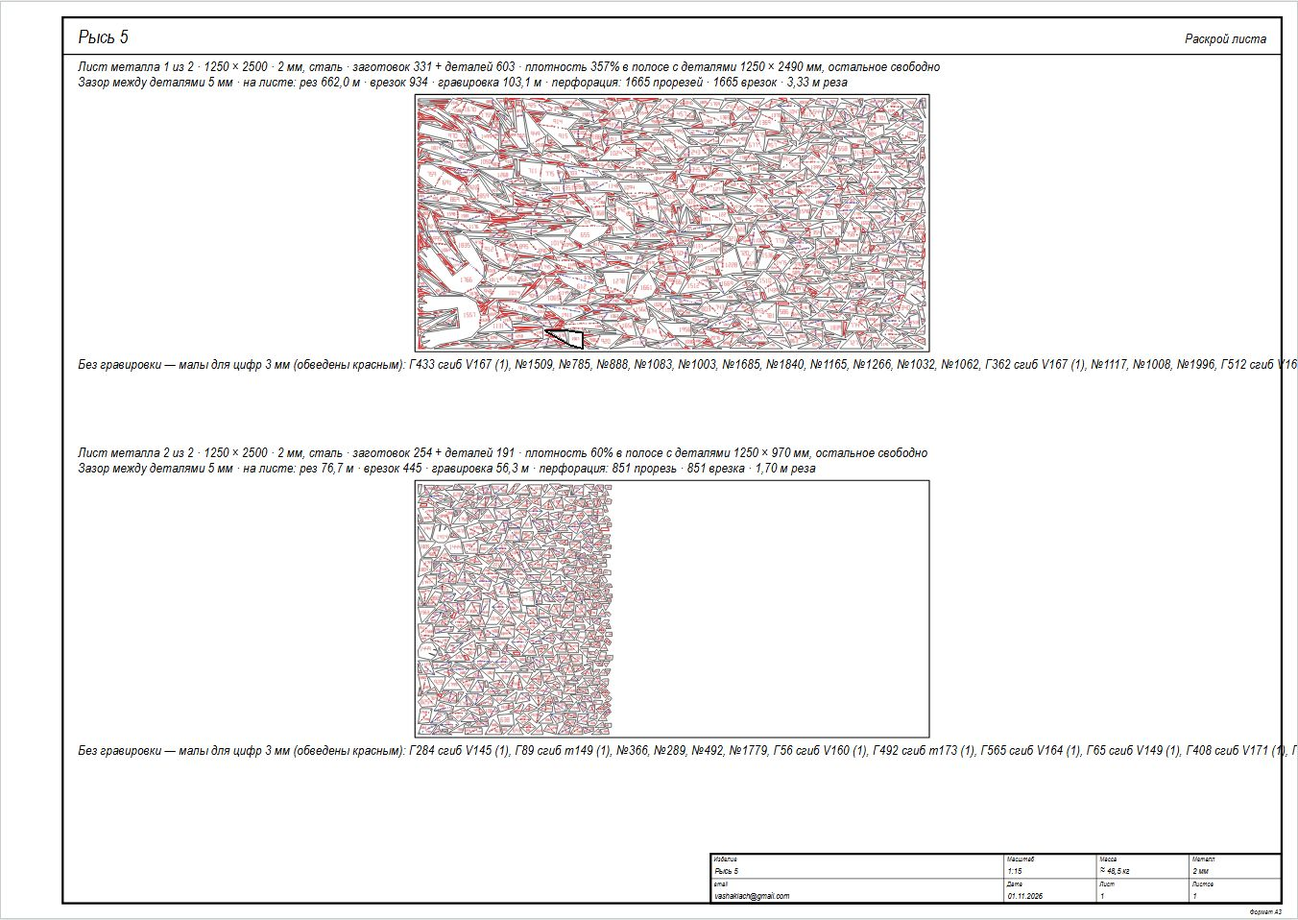
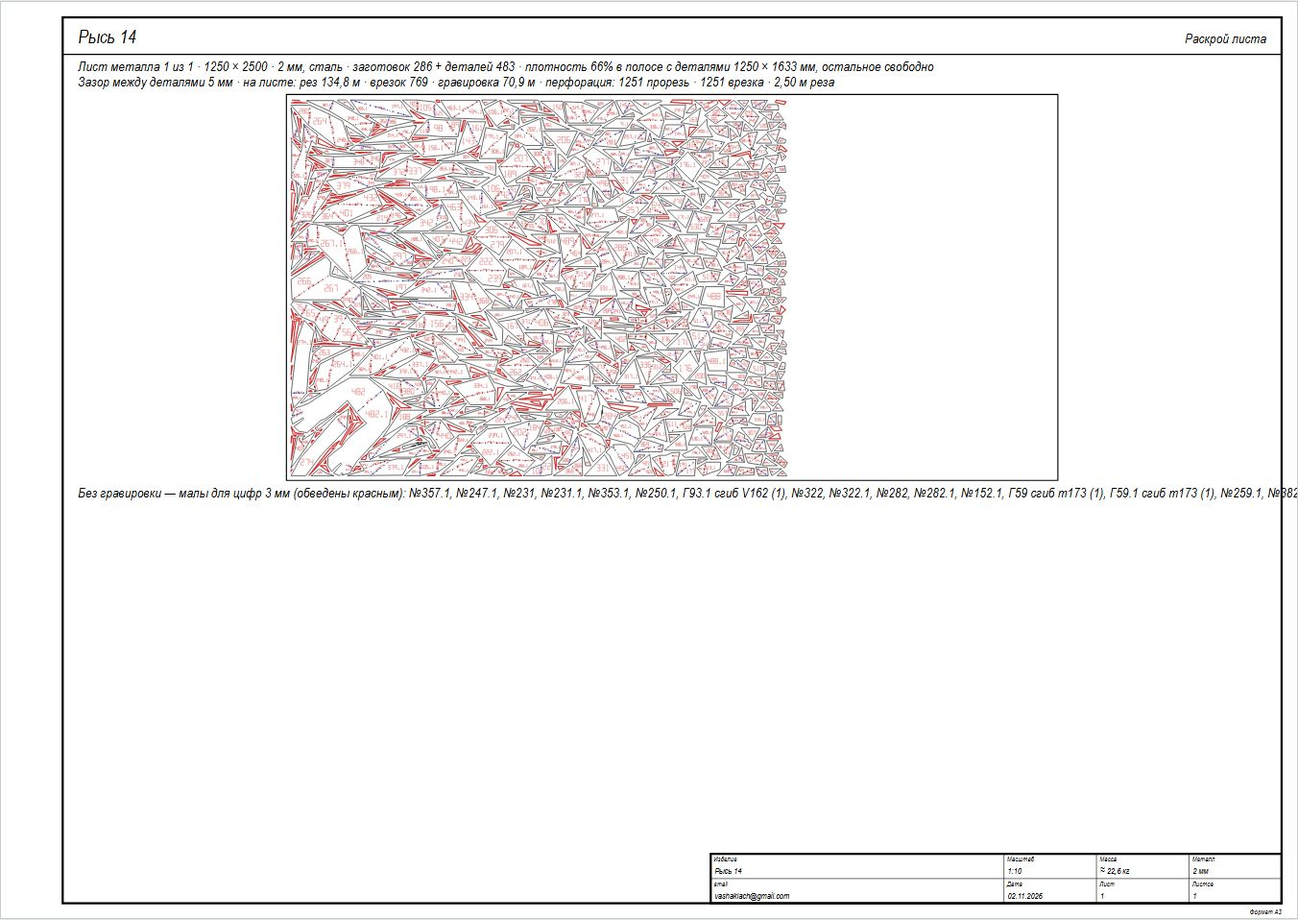
Рысь 14, кнопка редактора, подсказка про пересчёт на мангале
- Рысь 14: lynx/ пересобран, в «Переработке» вторая картинка (рысь 3), сборщик снимает список фигур
- Кнопка рыси: «Прислать фото и пожелания в Telegram», везде одинаково
- Строка под ползунками мангала мигает после правки, ссылка раскрывает «Что получаете»
- Блок «Ползунки — это только начало» и кнопки «Открыть в редакторе →» на editor/ (пока 404)
- model.json и stats.json грузятся с меткой ?v=

diff --git a/index.html b/index.html
@@ -14,9 +14,9 @@
 <meta property="og:url" content="https://vitalishaklach.github.io/metal-designer-landing/">
 <meta name="twitter:card" content="summary_large_image">
 <link rel="icon" href="data:,">
-<link rel="stylesheet" href="fonts/fonts.css?v=2026-11-02e">
-<link rel="stylesheet" href="css/landing.css?v=2026-11-02e">
-<link rel="stylesheet" href="css/md.css?v=2026-11-02e">
+<link rel="stylesheet" href="fonts/fonts.css?v=2026-11-02i">
+<link rel="stylesheet" href="css/landing.css?v=2026-11-02i">
+<link rel="stylesheet" href="css/md.css?v=2026-11-02i">
 </head>
 <body>
 <header class="top wrap">
@@ -63,8 +63,10 @@
       <div class="thick" id="sT" role="group" aria-label="Толщина металла всех деталей"><span>Металл</span></div>
       <label class="deep"><input type="checkbox" id="cDeep"><span>Глубокие прорези</span></label>
     </div>
+    <p class="hint" id="hint" data-item="mangal">Двигаете размеры — раскрой, масса, DXF и чертежи пересчитываются сами. <button type="button" class="hintgo" id="hintGo">Показать чертежи и DXF ↓</button></p>
     <div class="stats" id="lstats" data-item="mangal"></div>
     <button class="btn getbtn" id="getBtn" type="button" aria-expanded="false" aria-controls="get" data-item="mangal">Показать чертежи и DXF ↓</button>
+    <a class="btn btn-alt" href="editor/" data-item="mangal">Нужно больше, чем размеры? Править форму и металл в редакторе →</a>
 
     <!-- Рысь: только показываем готовое из lynx/. Картинки lazy — пока блок скрыт, они не грузятся -->
     <div class="lynx" data-item="rys" hidden>
@@ -76,6 +78,7 @@
           <img src="lynx/photo-3.jpg" alt="Фото рыси сзади" loading="lazy"></li>
         <li class="r-rework"><span class="rcap">Переработка</span>
           <img src="lynx/rework.jpg" alt="Гранёная модель рыси с разметкой швов" loading="lazy">
+          <img src="lynx/rework-2.jpg" alt="Рысь 3: вариант с более мелкими гранями" loading="lazy">
           <p>Гранёная модель, разметка швов</p></li>
         <li class="r-now"><span class="rcap">Стало</span>
           <div id="lynx3d" role="img" aria-label="Рысь из стальных плит, высота 1 м, в 3D: крутится мышью или пальцем вбок"></div>
@@ -85,7 +88,8 @@
           <img src="lynx/sheet.jpg" alt="Лист чертежа рыси" loading="lazy"></li>
       </ol>
       <div class="stats" id="lynxStats"></div>
-      <a class="btn btn-main" href="https://t.me/SHVA_1984" target="_blank" rel="noopener">Прислать фото своей фигуры</a>
+      <a class="btn btn-main" href="https://t.me/SHVA_1984" target="_blank" rel="noopener">Прислать фото и пожелания в Telegram</a>
+      <a class="btn btn-alt" href="editor/">Нужно больше, чем размеры? Править форму и металл в редакторе →</a>
     </div>
   </section>
 
@@ -167,12 +171,17 @@
     </div>
   </section>
 
-  <!-- Второй путь — в редактор. Скрыт, пока редактора нет (editor/ — 404): лендинг вышел раньше него (решение Виталия 02.11).
-       Вышел редактор — убрать hidden и test.skip у теста proj в tests/e2e/blocks.spec.js -->
-  <section class="proj wrap" id="proj" aria-labelledby="projT" hidden>
-    <h2 id="projT">Посмотрите, каким будет ваш проект</h2>
-    <p class="lead">Мангал, печь, рысь. Размеры меняете сами — бесплатно.</p>
-    <a class="btn" href="editor/">Подогнать под свои размеры →</a>
+  <!-- Второй путь — в редактор. editor/ пока 404: Виталий добавит его по ходу, лендинг пока никому не показывает (решение 02.11) -->
+  <section class="proj wrap" id="proj" aria-labelledby="projT">
+    <h2 id="projT">Ползунки — это только начало</h2>
+    <p class="lead">Размеры меняете сами — бесплатно. В редакторе правите не только размеры, а саму форму и всё про металл:</p>
+    <ul class="checks">
+      <li>тяните точки и грани: выдавить, вдавить, разрезать, провести шов</li>
+      <li>толщина, материал, лист, гильотина или лазер, сварка и зазоры</li>
+      <li>раскрой, DXF и чертежи пересчитываются на ваших глазах</li>
+      <li>можно открыть свою модель (OBJ, STL, GLB)</li>
+    </ul>
+    <a class="btn" href="editor/">Открыть в редакторе →</a>
   </section>
 
   <section class="how wrap" id="how" aria-labelledby="howT">
@@ -192,7 +201,7 @@
       <li><span>Viber</span> <a href="viber://chat?number=%2B375295751190">написать в Viber</a></li>
       <li><span>Почта</span> <a href="mailto:vashaklach@gmail.com">vashaklach@gmail.com</a></li>
     </ul>
-    <a class="btn btn-main" href="https://t.me/SHVA_1984" target="_blank" rel="noopener">Прислать фото и пожелания</a>
+    <a class="btn btn-main" href="https://t.me/SHVA_1984" target="_blank" rel="noopener">Прислать фото и пожелания в Telegram</a>
   </section>
 </main>
 
@@ -202,28 +211,28 @@
 <dialog class="lbox" id="lbox" aria-label="Картинка крупно"><img alt=""></dialog>
 
 <div class="cta-bar">
-  <a class="btn btn-main" href="https://t.me/SHVA_1984" target="_blank" rel="noopener">Прислать фото и пожелания</a>
+  <a class="btn btn-main" href="https://t.me/SHVA_1984" target="_blank" rel="noopener">Прислать фото и пожелания в Telegram</a>
 </div>
 
-<script src="vendor/three/three.min.js?v=2026-11-02e"></script>
-<script src="vendor/three/OrbitControls.js?v=2026-11-02e"></script>
-<script src="vendor/three/CSS2DRenderer.js?v=2026-11-02e"></script>
-<script src="md/params.js?v=2026-11-02e"></script>
-<script src="md/parts.js?v=2026-11-02e"></script>
-<script src="md/model.js?v=2026-11-02e"></script>
-<script src="md/dims.js?v=2026-11-02e"></script>
-<script src="md/cut.js?v=2026-11-02e"></script>
-<script src="md/dxf.js?v=2026-11-02e"></script>
-<script src="md/defaults.js?v=2026-11-02e"></script>
-<script src="md/stats.js?v=2026-11-02e"></script>
-<script src="md/views.js?v=2026-11-02e"></script>
-<script src="md/sheet-kit.js?v=2026-11-02e"></script>
-<script src="md/sheets.js?v=2026-11-02e"></script>
-<script src="md/nest.js?v=2026-11-02e"></script>
-<script src="md/cards.js?v=2026-11-02e"></script>
-<script src="md/link.js?v=2026-11-02e"></script>
-<script src="md/lynx.js?v=2026-11-02e"></script>
-<script src="md/landing.js?v=2026-11-02e"></script>
-<script src="md/controls.js?v=2026-11-02e"></script>
+<script src="vendor/three/three.min.js?v=2026-11-02i"></script>
+<script src="vendor/three/OrbitControls.js?v=2026-11-02i"></script>
+<script src="vendor/three/CSS2DRenderer.js?v=2026-11-02i"></script>
+<script src="md/params.js?v=2026-11-02i"></script>
+<script src="md/parts.js?v=2026-11-02i"></script>
+<script src="md/model.js?v=2026-11-02i"></script>
+<script src="md/dims.js?v=2026-11-02i"></script>
+<script src="md/cut.js?v=2026-11-02i"></script>
+<script src="md/dxf.js?v=2026-11-02i"></script>
+<script src="md/defaults.js?v=2026-11-02i"></script>
+<script src="md/stats.js?v=2026-11-02i"></script>
+<script src="md/views.js?v=2026-11-02i"></script>
+<script src="md/sheet-kit.js?v=2026-11-02i"></script>
+<script src="md/sheets.js?v=2026-11-02i"></script>
+<script src="md/nest.js?v=2026-11-02i"></script>
+<script src="md/cards.js?v=2026-11-02i"></script>
+<script src="md/link.js?v=2026-11-02i"></script>
+<script src="md/lynx.js?v=2026-11-02i"></script>
+<script src="md/landing.js?v=2026-11-02i"></script>
+<script src="md/controls.js?v=2026-11-02i"></script>
 </body>
 </html>

diff --git a/md/landing.js b/md/landing.js
@@ -126,6 +126,7 @@ SLIDERS.forEach(([k, id]) => {
     state[k] = +el.value;
     showState();
     redraw();
+    flashHint();
   });
 });
 
@@ -136,13 +137,13 @@ SIZE.t.options.forEach(v => {
   b.type = 'button';
   b.textContent = `${v} мм`;
   b.dataset.t = v;
-  b.addEventListener('click', () => { state.t = v; showState(); redraw(); });
+  b.addEventListener('click', () => { state.t = v; showState(); redraw(); flashHint(); });
   thick.appendChild(b);
 });
 
 // Глубокие прорези: галочка снята — прорезей нет ни на модели, ни в цифрах
 const deep = document.getElementById('cDeep');
-deep.addEventListener('change', () => { state.deep = deep.checked ? 1 : 0; redraw(); });
+deep.addEventListener('change', () => { state.deep = deep.checked ? 1 : 0; redraw(); flashHint(); });
 
 // Ползунки, кнопки толщины и галочка показывают state
 function showState() {
@@ -173,11 +174,26 @@ function showGet(open) {
   getBtn.textContent = open ? 'Скрыть чертежи ↑' : 'Показать чертежи и DXF ↓';
   getBtn.setAttribute('aria-expanded', String(open));
 }
+const calmMotion = () => matchMedia('(prefers-reduced-motion: reduce)').matches;   // кому мешает анимация — без плавной прокрутки
 getBtn.addEventListener('click', () => {
   showGet(getSec.hidden);
-  const calm = matchMedia('(prefers-reduced-motion: reduce)').matches;   // кому мешает анимация — без плавной прокрутки
-  if (!getSec.hidden) getSec.scrollIntoView({behavior: calm ? 'auto' : 'smooth', block: 'start'});
+  if (!getSec.hidden) getSec.scrollIntoView({behavior: calmMotion() ? 'auto' : 'smooth', block: 'start'});
   drawDocs(true);
+});
+
+// Строка под ползунками: после правки размеров мигает (через 0,3 с после последней), ссылка в строке раскрывает блок ниже
+const hint = document.getElementById('hint');
+let flashTimer = 0, flashOff = 0;
+function flashHint() {
+  clearTimeout(flashTimer);
+  flashTimer = setTimeout(() => {
+    hint.classList.add('flash');
+    clearTimeout(flashOff);
+    flashOff = setTimeout(() => hint.classList.remove('flash'), 3000);
+  }, 300);
+}
+document.getElementById('hintGo').addEventListener('click', () => {
+  if (getSec.hidden) getBtn.click(); else getSec.scrollIntoView({behavior: calmMotion() ? 'auto' : 'smooth', block: 'start'});
 });
 
 // Чертежи А3 и карты деталей А4: листы строятся, только пока их вкладка открыта. Открыли вкладку — сразу;
@@ -389,7 +405,7 @@ function setItem(next) {
   if (item === 'rys') {
     showGet(false);
     initLynx(document.getElementById('lynx3d'), document.getElementById('lynxPoster'));
-    lynxStatsLoad ??= fetch('lynx/stats.json').then(r => r.json())
+    lynxStatsLoad ??= fetch('lynx/stats.json?v=2026-11-02g').then(r => r.json())
       .then(st => { document.getElementById('lynxStats').innerHTML = lynxStatsHtml(st); })
       .catch(() => { lynxStatsLoad = null; });   // не загрузилось — без цифр, следующий показ попробует снова
   } else if (ok) {

diff --git a/css/landing.css b/css/landing.css
@@ -154,7 +154,7 @@ h1 {
   #lynxStats .stat { border-top: 0; border-left: 1px solid var(--rule); }
   #lynxStats .stat:first-child { border-left: 0; }
 }
-.lynx .btn-main { align-self: flex-start; }
+.lynx .btn-main, .lynx .btn-alt { align-self: flex-start; margin-top: 0; }
 
 /* Картинка ленты крупно */
 .lbox { padding: 0; border: 1px solid var(--blue); background: #fff; max-width: 96vw; max-height: 92vh; cursor: zoom-out; }
@@ -174,6 +174,13 @@ h1 {
   background: var(--paper);
 }
 .btn-main { background: var(--accent); border-color: var(--accent); color: #fff; }
+.hint { margin: 0; padding: 4px 6px; margin-left: -6px; font-size: 14px; line-height: 1.35; color: var(--muted); border-radius: 3px; transition: color .3s, background-color .3s; }
+.hint { padding: 6px 8px; margin-left: -8px; }
+.hint.flash { color: #fff; background: var(--accent); font-weight: 600; }
+.hint.flash .hintgo { color: #fff; }
+.hintgo { padding: 0; border: 0; background: none; font: inherit; font-weight: 600; color: var(--accent); text-decoration: underline; cursor: pointer; }
+@media (prefers-reduced-motion: reduce) { .hint { transition: none; } }
+.btn-alt { margin-top: 8px; }   /* вторая кнопка — обводкой, под главной */
 .btn-main:hover { background: var(--accent-dark); border-color: var(--accent-dark); }
 .btn:focus-visible { outline: 3px solid var(--blue); outline-offset: 2px; }
 
@@ -196,7 +203,10 @@ h1 {
 /* Нижние блоки: «Сейчас / с Metal Designer», «Посмотрите, каким будет ваш проект», «Как работаем», «Виталий» */
 .vs, .proj, .how, .me { padding-top: 24px; padding-bottom: 32px; }
 /* Кнопка в редактор — обводкой, слабее главной оранжевой */
-.proj .lead { margin-bottom: 16px; }
+.proj .lead { margin-bottom: 12px; }
+.checks { list-style: none; margin: 0 0 16px; padding: 0; }
+.checks li { position: relative; padding: 4px 0 4px 24px; font-weight: 600; }
+.checks li::before { content: "✓"; position: absolute; left: 0; color: var(--accent); font-weight: 700; }
 .proj .btn:hover { background: var(--panel); }
 .how h2, .me h2 { margin-bottom: 14px; }
 .vs h2 { margin: 0; }
@@ -285,6 +295,7 @@ h1 {
   .ribbon li + li::before { display: none; }
   .rcap { font-size: 12px; letter-spacing: .03em; }
   .r-was img, .r-rework img { flex: none; height: 96px; object-fit: cover; }
+  .r-rework img { height: 45px; }   /* две картинки столбиком — вместе как одно фото «Было» */
   .r-rework p { font-size: 10px; }
   #lynxStats .stat:last-child { grid-column: 1 / -1; }
   /* на телефоне главная кнопка всегда видна в полосе внизу (.cta-bar) — вторая такая же в рыси и контактах лишняя */

diff --git a/tools/lynx-capture.js b/tools/lynx-capture.js
@@ -132,8 +132,11 @@ async function capture(version, rework) {
     // Сначала быстрое: ошибка всплывёт сразу, а не после раскроя
     console.log(`Рысь ${version}: картинка 3D…`);
     out['poster.jpg'] = await shotFigure(browser, url, id);
-    console.log(`Переработка (${rework})…`);
-    out['rework.jpg'] = await shotFigure(browser, url, rework);
+    // Переработка: первая фигура — rework.jpg, следующие — rework-2.jpg, rework-3.jpg…
+    for (const [i, f] of rework.entries()) {
+      console.log(`Переработка (${f})…`);
+      out[i ? `rework-${i + 1}.jpg` : 'rework.jpg'] = await shotFigure(browser, url, f);
+    }
 
     const page = await browser.newPage({viewport: {width: 1400, height: 900}});
     page.on('pageerror', e => console.error('Ошибка на странице:', e.message));
@@ -167,10 +170,10 @@ async function capture(version, rework) {
 
 if (require.main === module) {
   const args = process.argv.slice(2), at = args.indexOf('--rework');
-  const rework = at >= 0 ? args.splice(at, 2)[1] : 'lynx';
-  const version = Number(args[0] || 5);
-  if (!Number.isInteger(version) || version < 1 || !rework) {
-    console.error('Запуск: npm run lynx -- <версия> [--rework <id фигуры>]');
+  const rework = (at >= 0 ? args.splice(at, 2)[1] || '' : 'lynx,lynx3').split(',').filter(Boolean);
+  const version = Number(args[0] || 14);
+  if (!Number.isInteger(version) || version < 1 || !rework.length) {
+    console.error('Запуск: npm run lynx -- <версия> [--rework <id фигуры>,<id>…]');
     process.exit(1);
   }
   capture(version, rework).catch(e => { console.error('Не собрал рысь:', e.message); process.exit(1); });

diff --git a/tests/e2e/first-screen.spec.js b/tests/e2e/first-screen.spec.js
@@ -72,3 +72,19 @@ test('noWebGL: вместо 3D надпись, цифры на месте', asyn
   // единственная ошибка в консоли — сам three.js сообщает, что WebGL нет
   expect(w.errors.filter(e => !/WebGLRenderer: Error creating WebGL context/.test(e))).toEqual([]);
 });
+
+test('hint: строка под ползунками мигает после правки, не мигает при открытии; «Показать чертежи и DXF ↓» раскрывает блок', async ({page}) => {
+  const w = watch(page);
+  await page.goto('/');
+  const hint = page.locator('#hint');
+  await page.waitForTimeout(600);
+  await expect(hint).not.toHaveClass(/flash/);
+  await page.locator('#sT button[data-t="5"]').click();
+  await expect(hint).toHaveClass(/flash/);
+  await expect(hint).not.toHaveClass(/flash/, {timeout: 6000});
+  await expect(page.locator('#get')).toBeHidden();
+  await page.locator('#hintGo').click();
+  await expect(page.locator('#get')).toBeVisible();
+  await expect(page.locator('#getBtn')).toHaveAttribute('aria-expanded', 'true');
+  expect(w.pageErrors).toEqual([]);
+});

diff --git a/md/lynx.js b/md/lynx.js
@@ -56,7 +56,7 @@ async function startLynx(box) {
   if (!ok) return false;
   try { renderer = new THREE.WebGLRenderer({antialias: true, alpha: true}); } catch (e) { return false; }
   try {
-    const r = await fetch('lynx/model.json');
+    const r = await fetch('lynx/model.json?v=2026-11-02g');
     if (!r.ok) throw new Error(r.status);
     model = await r.json();
   } catch (e) { renderer.dispose(); return false; }

diff --git a/CLAUDE.md b/CLAUDE.md
@@ -29,7 +29,7 @@
 - `fonts/` — Oswald, Golos Text, JetBrains Mono в woff2 и лицензии OFL.
 - `css/` — `landing.css` (страница) и `md.css` (блоки движка).
 - `img/og.png` — карточка ссылки для мессенджеров, 1200 × 630.
-- `lynx/` — рысь для первого экрана, готовые файлы одной версии: `model.json` (точки и грани), `stats.json` (плитки цифр), `photo-1..3.jpg` (было), `rework.jpg` (гранёная модель со швами), `poster.jpg` (3D картинкой), `nest.jpg` и `sheet.jpg` (первый лист раскроя и чертежей). Руками не правим — собирает `tools/lynx-capture.js`.
+- `lynx/` — рысь для первого экрана, готовые файлы одной версии: `model.json` (точки и грани), `stats.json` (плитки цифр), `photo-1..3.jpg` (было), `rework.jpg` и `rework-2.jpg` (гранёная модель со швами и рысь 3), `poster.jpg` (3D картинкой), `nest.jpg` и `sheet.jpg` (первый лист раскроя и чертежей). Руками не правим — собирает `tools/lynx-capture.js`.
 - `tools/lynx-capture.js` — сборщик `lynx/` из `C:\dev\metal-designer\art\private\lynx.html` (только для разработки, на сайт не влияет). `C:\dev` только читает: отдаёт его через `python -m http.server` на 127.0.0.1 и снимает страницу в Playwright.
 - `demo.html` — песочница, модули в `js/`: расчёты отдельно от эскизов и интерфейса (`demo.js`).
 - `tests/` — автотесты: `unit/` (расчёты, ссылка, листы, карты в Node), `e2e/` (страница в браузере), `engine.js` и `golden.json` (стенд движка и эталон цифр), `serve.py` (локальный сервер).
@@ -49,7 +49,7 @@ NODE_OPTIONS=--use-system-ca npx playwright test    # страница: desktop 
 
 Оба должны быть зелёными перед коммитом. После этого — глазами на десктопе и на телефоне.
 
-Новая версия рыси (Виталий доделал её в `C:\dev\metal-designer`): `NODE_OPTIONS=--use-system-ca npm run lynx -- 6` — номер версии из `plates-lynx6.js`; раскрой считается минутами. Потом посмотреть картинки в `lynx/` глазами (не пустые, рысь целиком, без панелей редактора) и закоммитить `lynx/`. `--rework <id>` — другая фигура для картинки «Переработка» (по умолчанию `lynx`, исходная гранёная).
+Новая версия рыси (Виталий доделал её в `C:\dev\metal-designer`): `NODE_OPTIONS=--use-system-ca npm run lynx -- 6` — номер версии из `plates-lynx6.js`; раскрой считается минутами. Потом посмотреть картинки в `lynx/` глазами (не пустые, рысь целиком, без панелей редактора) и закоммитить `lynx/`. `--rework <id>,<id>…` — фигуры для картинок «Переработка»: первая — `rework.jpg`, следующие — `rework-2.jpg`… (по умолчанию `lynx,lynx3`: исходная гранёная и рысь 3).
 
 ## Как сайт публикуется
 
